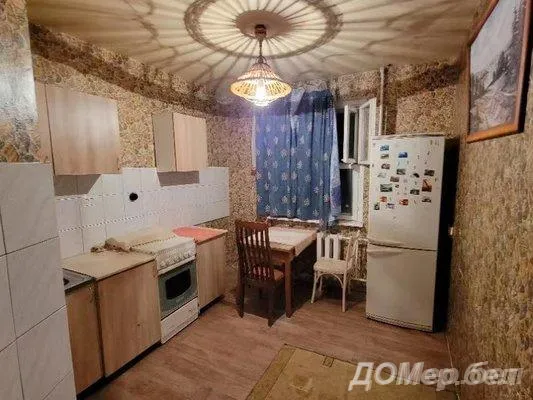
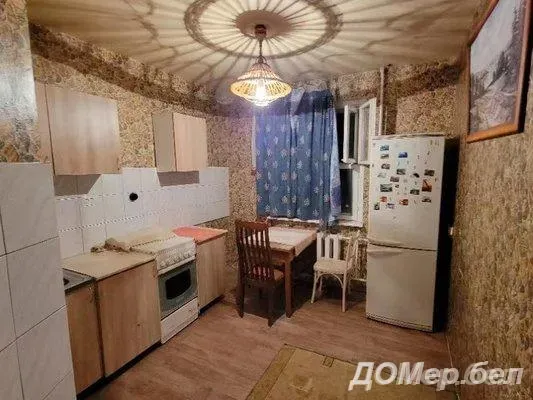
help

Changed region(s): [[0.6604, 0.9, 0.9906, 0.99]]

diff --git a/advertisement/templates/advertisement_details.html b/advertisement/templates/advertisement_details.html
@@ -48,9 +48,11 @@
       alt="{% if advertisement.preview_image %} {{ advertisement.preview_image.url }} {% else %}{% static 'img/no_image.jpg' %}{% endif %}">
     </div>
     {% for photo in advertisement.photoadvertisement_set.all %}
-    <div>
+    {% if photo.photo.url != advertisement.preview_image.url %}
+      <div>
       <img data-lazy="{{ photo.photo.url }}" alt="{{ photo.photo.url }}">
     </div>
+      {% endif %}
     {% endfor %}
   </div>
   <div class="magnifier__zoom-second">
@@ -64,9 +66,11 @@
                                  alt="{% if advertisement.preview_image %} {{ advertisement.preview_image.url }} {% else %}{% static 'img/no_image.jpg' %}{% endif %}">
     </div>
     {% for photo in advertisement.photoadvertisement_set.all %}
+      {% if photo.photo.url != advertisement.preview_image.url %}
     <div class="magnifier__zoom-second-item">
       <img data-lazy="{{ photo.photo.url }}" alt="{{ photo.photo.url }}">
     </div>
+      {% endif %}
     {% endfor %}
   </div>
 </div>
@@ -106,10 +110,16 @@
                   allowfullscreen></iframe>
               </div>
               {% endif %}
+                <div>
+                    <img src="{% if advertisement.preview_image %} {{ advertisement.preview_image.url }} {% else %}{% static 'img/no_image.jpg' %}{% endif %}"
+                                 alt="{% if advertisement.preview_image %} {{ advertisement.preview_image.url }} {% else %}{% static 'img/no_image.jpg' %}{% endif %}">
+                </div>
               {% for photo in advertisement.photoadvertisement_set.all %}
+                {% if photo.photo.url != advertisement.preview_image.url %}
               <div>
                 <img data-lazy="{{ photo.photo.url }}" alt="{{ photo.photo.url }}">
               </div>
+                {% endif %}
               {% endfor %}
             </div>
             <div class="magnifier">
@@ -122,10 +132,16 @@
               <img data-lazy="https://i.ytimg.com/vi/{{ advertisement.video_link|cut:'https://www.youtube.com/watch?v=' }}/hqdefault.jpg" alt="">
             </li>
             {% endif %}
+              <li class="details__advertisement-view-list-img-item">
+                    <img src="{% if advertisement.preview_image %} {{ advertisement.preview_image.url }} {% else %}{% static 'img/no_image.jpg' %}{% endif %}"
+                                 alt="{% if advertisement.preview_image %} {{ advertisement.preview_image.url }} {% else %}{% static 'img/no_image.jpg' %}{% endif %}">
+              </li>
             {% for photo in advertisement.photoadvertisement_set.all %}
+              {% if photo.photo.url != advertisement.preview_image.url %}
             <li class="details__advertisement-view-list-img-item">
               <img data-lazy="{{ photo.photo.url }}" alt="{{ photo.photo.url }}">
             </li>
+              {% endif %}
             {% endfor %}
           </ul>
         </div>

diff --git a/main_page_domer/static/css/profile_store.css b/main_page_domer/static/css/profile_store.css
@@ -54,10 +54,8 @@
   max-height: 85px;
   width: 100%;
   height: 100%;
-  -o-object-fit: cover;
-     object-fit: cover;
-  -o-object-position: center;
-     object-position: center;
+  object-fit: cover;
+  object-position: center;
   border-radius: 3px;
 }
 .photo_img:hover .delete_img {
@@ -106,4 +104,6 @@
   .form__wrapper {
     grid-template-columns: repeat(auto-fill, minmax(400px, 1fr));
   }
-}/*# sourceMappingURL=profile_store.css.map */
+}
+
+/*# sourceMappingURL=profile_store.css.map */

diff --git a/api_domer/views.py b/api_domer/views.py
@@ -94,7 +94,6 @@ def get_store_for_advertisement(request):
 
 @api_view(['POST'])
 def save_advertisement(request):
-    print(request.data)
     additional_information = dict(request.data.copy())
     serializer = AdvertisementSerializer(data=request.data)
     serializer.is_valid()
@@ -127,6 +126,7 @@ def save_advertisement(request):
 @api_view(['PATCH'])
 def update_advertisement(request):
     additional_information = dict(request.data.copy())
+    print(additional_information)
     serializer = AdvertisementSerializer(data=request.data)
     serializer.is_valid()
     keys_to_delete = ['csrfmiddlewaretoken', 'preview_img', 'photo_files', 'deleted_images', 'advertisement']
@@ -139,9 +139,8 @@ def update_advertisement(request):
             additional_information[i.title] = ', '.join(additional_information.pop(f'{i.id}'))
         deleted_images = request.data.get('deleted_images').split(',')
         preview_img = request.data.get("preview_img")
-        Advertisement.objects.filter(id=request.data.get('advertisement')
-                                     ).update(author=None if request.user.is_anonymous else request.user,
-                                              additional_information=additional_information,
+        Advertisement.objects.filter(author=request.user, id=request.data.get('advertisement')
+                                     ).update(additional_information=additional_information,
                                               **serializer.validated_data)
         advertisement = get_object_or_404(Advertisement, id=request.data.get('advertisement'))
 
@@ -247,150 +246,4 @@ def password_reset(request):
     else:
         raise serializers.ValidationError(
             {"errors": password_reset_serializer.errors})
-
-
-class ThisPublicationSearchListAPIView(generics.ListAPIView):
-    """ Выводим все новости секции """
-    queryset = Publication.objects.all()
-    serializer_class = PublicationSearchSerializer
-    pagination_class = LimitOffsetPagination  # Пагинация
-    # Поиск по заголовку, содержанию и дате
-    filter_backends = [filters.SearchFilter, DjangoFilterBackend]
-    search_fields = ['title', 'announcement', 'description']  # Поля, по которым будет выполняться поиск
-    filterset_class = PublicationsFilter
-
-
-@api_view(['POST'])
-def save_publication(request):
-    """ Сохранение новой публикации """
-    try:
-        query_dict = request.data.dict()
-        print(query_dict)
-        main_img_name = request.data.get('main_img')
-        preview_image_list = request.FILES.getlist('preview_image')
-        if len(preview_image_list) > 1:
-            for preview_img in preview_image_list:
-                if preview_img.name == main_img_name:
-                    query_dict['preview_image'] = preview_img
-                    preview_image_list.remove(preview_img)
-        else:
-            preview_image_list = []
-        query_dict['user'] = request.user.id
-        serializer = SavePublicationSerializer(data=query_dict)
-        if serializer.is_valid():
-            serializer.save()
-            if preview_image_list != []:
-                for preview_image in preview_image_list:
-                    serializer_for_photo_publication = SavePhotoPublicationSerializer(
-                        data={"publications": serializer.instance.id, "photo": preview_image})
-                    if serializer_for_photo_publication.is_valid():
-                        serializer_for_photo_publication.save()
-                    else:
-                        return Response({"errors": serializer_for_photo_publication.errors},
-                                        status=status.HTTP_400_BAD_REQUEST)
-        else:
-            return Response({"errors": serializer.errors}, status=status.HTTP_400_BAD_REQUEST)
-
-    except Exception as error:
-        return Response({"error": "Ошибка при сохранении публикации",
-                         "detail": str(error)}, status=status.HTTP_400_BAD_REQUEST)
-
-    return Response({"created": "Публикация успешно сохранена"}, status=status.HTTP_201_CREATED)
-
-
-@api_view(['POST'])
-def edit_publication(request):
-    """ Сохранение публикации после редактирования """
-    error_serializer = {'errors': []}
-    if request.method == "POST":
-        try:
-            query_dict = request.data.dict()
-            flag_edited_publication = False
-            main_img_name = request.data.get('main_img')
-            edited_publication = Publication.objects.get(slug=query_dict.get("dataSlag"))
-            serializer_edit_publication = EditPublicationSerializer(data=query_dict)
-
-            if not request.FILES.get('preview_image'):
-                del query_dict['preview_image']
-                preview_image_list = []
-            else:
-                preview_image_list = request.FILES.getlist('preview_image')
-
-            if serializer_edit_publication.is_valid() and main_img_name != 'undefined':
-                validated_data = serializer_edit_publication.validated_data
-
-                if query_dict.get("title") != edited_publication.title:  # Проверяем изменился ли заголовок
-                    edited_publication.title = validated_data.get("title")
-                    flag_edited_publication = True
-
-                if query_dict.get("announcement") != edited_publication.announcement:  # Проверяем изменилась ли аннотация
-                    edited_publication.announcement = validated_data.get("announcement")
-                    flag_edited_publication = True
-
-                if query_dict.get("description") != edited_publication.description:  # Проверяем изменился ли текст статьи
-                    edited_publication.description = validated_data.get("description")
-                    flag_edited_publication = True
-
-                if query_dict.get("video_link") != edited_publication.video_link:  # Проверяем изменился ли ссылка на видео
-                    edited_publication.video_link = validated_data.get("video_link")
-                    flag_edited_publication = True
-
-                if not preview_image_list:  # Проверяем есть ли новые загруженные картинки
-                    if main_img_name != edited_publication.preview_image:
-                        PhotoPublication.objects.filter(photo=main_img_name).update(
-                            photo=edited_publication.preview_image)
-                        edited_publication.preview_image = main_img_name
-                        flag_edited_publication = True
-                else:
-                    new_main_img_file = False
-                    for preview_img in preview_image_list:
-                        if preview_img.name == main_img_name:
-                            main_img_name = preview_img
-                            preview_image_list.remove(preview_img)
-                            new_main_img_file = True
-
-                    if main_img_name != edited_publication.preview_image and not new_main_img_file:  # Главная картинка изменилась и ее нет в новых файлах
-                        PhotoPublication.objects.filter(photo=main_img_name).update(
-                            photo=edited_publication.preview_image)
-                        edited_publication.preview_image = main_img_name
-                        flag_edited_publication = True
-                    elif main_img_name != edited_publication.preview_image and new_main_img_file:  # Главная картинка изменилась и она в новых файлах
-                        p = PhotoPublication(photo=edited_publication.preview_image, publications=edited_publication)
-                        p.save()
-                        edited_publication.preview_image = main_img_name
-                        flag_edited_publication = True
-
-                    if preview_image_list:  # Если есть новые файлы сохраняем их
-                        flag_edited_publication = True
-                        for preview_image in preview_image_list:
-                            serializer_for_photo_publication = SavePhotoPublicationSerializer(
-                                data={"publications": edited_publication.id, "photo": preview_image})
-                            if serializer_for_photo_publication.is_valid():
-                                serializer_for_photo_publication.save()
-                            else:
-                                for field, errors in serializer_for_photo_publication.errors.items():
-                                    error_serializer['errors'].append(
-                                        f"Поле '{field}' не прошло валидацию. Ошибки: {errors}")
-                                return Response({"error": "Ошибка валидации данных ", "detail": error_serializer},
-                                                status=status.HTTP_400_BAD_REQUEST)
-
-                if query_dict.get('deletedImages'):  # Если есть файлы на удаление удаляем их
-                    deleted_images = query_dict.get('deletedImages').split(',')
-                    PhotoPublication.objects.filter(photo__in=deleted_images).delete()
-                    flag_edited_publication = True
-
-                if flag_edited_publication:  # Если были изменения в публикации то сохраняем их
-                    edited_publication.moderated = False
-                    edited_publication.save()
-
-            else:
-                for field, errors in serializer_edit_publication.errors.items():
-                    error_serializer['errors'].append(f"Поле '{field}' не прошло валидацию. Ошибки: {errors}")
-                return Response({"error": "Ошибка валидации данных ", "detail": error_serializer},
-                                status=status.HTTP_400_BAD_REQUEST)
-
-        except Exception as error:
-            return Response({"error": "Ошибка при изменении публикации",
-                             "detail": str(error)}, status=status.HTTP_400_BAD_REQUEST)
-    return Response({"update": "Публикация успешно изменена"}, status=status.HTTP_200_OK)
 

diff --git a/api_domer/urls.py b/api_domer/urls.py
@@ -5,9 +5,7 @@ from django.urls import path, include
 
 from api_domer.views import get_list_of_cities, get_list_of_categories, get_region_list, get_category_list, \
     get_categories_for_search, get_field_list, get_elementtwo_list, save_advertisement, get_store_for_advertisement, \
-    update_advertisement, registration_user, login_user, logout_user, password_reset, ThisPublicationSearchListAPIView, \
-                             save_publication, edit_publication
-
+    update_advertisement, registration_user, login_user, logout_user, password_reset
 
 
 urlpatterns = [
@@ -25,7 +23,4 @@ urlpatterns = [
     path('login_user/', login_user),
     path('logout/', logout_user),
     path('password_reset/', password_reset),
-    path('get_search_publications/', ThisPublicationSearchListAPIView.as_view(), name='get_search_publications'),
-    path('save_publication/', save_publication),
-    path('edit_publication/', edit_publication),
 ]

diff --git a/advertisement/signals.py b/advertisement/signals.py
@@ -39,8 +39,8 @@ def publication_photo_delete(sender, instance, **kwargs):
     instance.preview_image.delete(False)
 
 
-@receiver(pre_delete, sender=PhotoAdvertisement)
-def publication_photo_delete(sender, instance, **kwargs):
-    """ Удаление файлов перед удалением экземпляра
-    дополнительного изображения объявления """
-    instance.photo.delete(False)
+# @receiver(pre_delete, sender=PhotoAdvertisement)
+# def publication_photo_delete(sender, instance, **kwargs):
+#     """ Удаление файлов перед удалением экземпляра
+#     дополнительного изображения объявления """
+#     instance.photo.delete(False)

diff --git a/main_page_domer/admin.py b/main_page_domer/admin.py
@@ -1,9 +1,10 @@
 from django.contrib import admin
-from main_page_domer.models import Complaint, ReasonOfComplaint, Publication, PublicationAdmin, Comment, PhotoPublication
-
+from main_page_domer.models import Complaint, ReasonOfComplaint, Publication, PublicationAdmin, Comment, \
+    PhotoPublication, Help
 
 admin.site.register(Complaint)
 admin.site.register(ReasonOfComplaint)
 admin.site.register(PhotoPublication)
 admin.site.register(Publication, PublicationAdmin)
 admin.site.register(Comment)
+admin.site.register(Help)

diff --git a/main_page_domer/models.py b/main_page_domer/models.py
@@ -126,3 +126,14 @@ class PublicationAdmin(admin.ModelAdmin):
     ordering = [
         "date_of_create",
     ]
+
+
+class Help(models.Model):
+    announcement = CKEditor5Field(config_name='extends', verbose_name='Текст помощи')
+
+    class Meta:
+        verbose_name = "Текст страницы помощь"
+        verbose_name_plural = "Текст страницы помощь"
+
+    def __str__(self):
+        return f'Текст страницы помощь'
